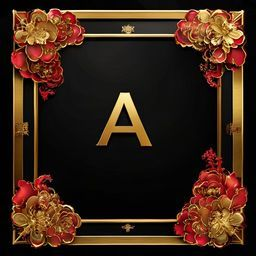
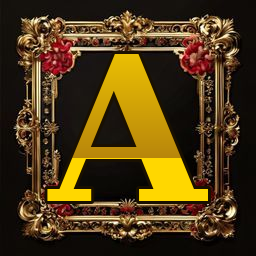
牌面 symbol 統一化：模板 + PIL 疊字方式
- 新增 2 套無文字底板模板（template_mid / template_high）
- 新增 generate_symbols.py 合成腳本（金色漸層、描邊、陰影、高光）
- 重新生成全部 13 張牌面，文字風格完全統一
- 更新 CURRENT_STATUS.md 及 dev_log

diff --git a/art/scripts/generate_symbols.py b/art/scripts/generate_symbols.py
@@ -1,0 +1,107 @@
+#!/usr/bin/env python3
+"""Generate 13 card symbol images by overlaying text on template backgrounds."""
+
+from PIL import Image, ImageDraw, ImageFont, ImageFilter
+import os
+
+BASE_DIR = os.path.dirname(os.path.dirname(os.path.abspath(__file__)))
+TEMPLATES_DIR = os.path.join(BASE_DIR, "assets", "templates")
+OUTPUT_DIR = os.path.join(BASE_DIR, "assets")
+
+FONT_PATH = "/usr/share/fonts/truetype/dejavu/DejaVuSerif-Bold.ttf"
+
+CARDS = [
+    ("CD-01_ace.png", "A", "high"),
+    ("CD-02_king.png", "K", "high"),
+    ("CD-03_queen.png", "Q", "high"),
+    ("CD-04_jack.png", "J", "high"),
+    ("CD-05_num2.png", "2", "mid"),
+    ("CD-06_num3.png", "3", "mid"),
+    ("CD-07_num4.png", "4", "mid"),
+    ("CD-08_num5.png", "5", "mid"),
+    ("CD-09_num6.png", "6", "mid"),
+    ("CD-10_num7.png", "7", "mid"),
+    ("CD-11_num8.png", "8", "mid"),
+    ("CD-12_num9.png", "9", "mid"),
+    ("CD-13_num10.png", "10", "mid"),
+]
+
+GOLD_TOP = (255, 215, 0)
+GOLD_BOTTOM = (184, 134, 11)
+OUTLINE_COLOR = (26, 16, 0)
+SHADOW_COLOR = (0, 0, 0, 128)
+HIGHLIGHT_COLOR = (255, 248, 200, 180)
+
+
+def make_gradient_text(label, font, x, y, text_h):
+    """Create text layer with vertical gold gradient."""
+    tmp = Image.new("RGBA", (256, 256), (0, 0, 0, 0))
+    draw = ImageDraw.Draw(tmp)
+    draw.text((x, y), label, font=font, fill=GOLD_TOP)
+    for row in range(max(0, y), min(256, y + text_h)):
+        t = (row - y) / max(text_h, 1)
+        r = int(GOLD_TOP[0] * (1 - t) + GOLD_BOTTOM[0] * t)
+        g = int(GOLD_TOP[1] * (1 - t) + GOLD_BOTTOM[1] * t)
+        b = int(GOLD_TOP[2] * (1 - t) + GOLD_BOTTOM[2] * t)
+        for col in range(256):
+            px = tmp.getpixel((col, row))
+            if px[3] > 0:
+                tmp.putpixel((col, row), (r, g, b, px[3]))
+    return tmp
+
+
+def generate_card(filename, label, template_type):
+    """Generate a single card image."""
+    template = Image.open(
+        os.path.join(TEMPLATES_DIR, f"template_{template_type}.png")
+    ).convert("RGBA")
+
+    # Size font to ~58% of image height
+    target_h = int(256 * 0.58)
+    font = ImageFont.truetype(FONT_PATH, 160)
+    bbox = font.getbbox(label)
+    font_size = int(160 * target_h / (bbox[3] - bbox[1]))
+    font = ImageFont.truetype(FONT_PATH, font_size)
+    bbox = font.getbbox(label)
+    text_w, text_h = bbox[2] - bbox[0], bbox[3] - bbox[1]
+    x = (256 - text_w) // 2 - bbox[0]
+    y = (256 - text_h) // 2 - bbox[1]
+
+    # Shadow
+    shadow = Image.new("RGBA", (256, 256), (0, 0, 0, 0))
+    ImageDraw.Draw(shadow).text((x + 2, y + 2), label, font=font, fill=SHADOW_COLOR)
+    shadow = shadow.filter(ImageFilter.GaussianBlur(1))
+
+    # Outline
+    outline = Image.new("RGBA", (256, 256), (0, 0, 0, 0))
+    ImageDraw.Draw(outline).text(
+        (x, y), label, font=font, fill=OUTLINE_COLOR,
+        stroke_width=3, stroke_fill=OUTLINE_COLOR
+    )
+
+    # Gradient text
+    grad_text = make_gradient_text(label, font, x, y, text_h)
+
+    # Highlight (top 2px of text only)
+    highlight = Image.new("RGBA", (256, 256), (0, 0, 0, 0))
+    ImageDraw.Draw(highlight).text((x, y), label, font=font, fill=HIGHLIGHT_COLOR)
+    for row in range(256):
+        if row < y or row > y + 2:
+            for col in range(256):
+                if highlight.getpixel((col, row))[3] > 0:
+                    highlight.putpixel((col, row), (0, 0, 0, 0))
+
+    # Composite
+    result = template.copy()
+    for layer in [shadow, outline, grad_text, highlight]:
+        result = Image.alpha_composite(result, layer)
+
+    result.convert("RGB").save(os.path.join(OUTPUT_DIR, filename), "PNG")
+    print(f"  ✅ {filename} ({label})")
+
+
+if __name__ == "__main__":
+    print("Generating 13 card symbols...")
+    for filename, label, ttype in CARDS:
+        generate_card(filename, label, ttype)
+    print("\nDone! All 13 cards generated.")

diff --git a/docs/dev_log/美術音效.md b/docs/dev_log/美術音效.md
@@ -39,3 +39,21 @@
 **關鍵 prompt / 指令：** A single large golden number 4 centered on pure black background, only one digit, ornate gold square frame border, the number occupies 60 percent of frame, red Chinese cloud motifs in four corners, Modern Guochao style, metallic gold texture, slot machine game symbol, clean sharp design, no duplicate characters, no repeated numbers
 **人工修正：** 無
 **耗時：** ~3 分鐘
+
+### [2026-05-26] — 牌面 symbol 統一化（模板 + PIL 疊字）
+
+**環節：** 美術
+**AI 工具：** Kiro Agent + Pollinations.ai + Python PIL
+**做了什麼：**
+1. 用 Pollinations.ai 生成 2 套無文字底板模板（中階 template_mid / 高階 template_high）
+2. 撰寫 generate_symbols.py 腳本，用 PIL 統一疊上金色漸層文字（DejaVu Serif Bold、描邊、陰影、高光）
+3. 產出 13 張最終合成牌面圖，替換舊圖
+**Before：** 每張牌面由 AI 獨立生成（文字風格不完全一致）
+**After：**
+- art/assets/templates/template_mid.png（中階底板）
+- art/assets/templates/template_high.png（高階底板）
+- art/scripts/generate_symbols.py（合成腳本，可重複執行）
+- art/assets/CD-01~CD-13（13 張統一風格牌面）
+**關鍵 prompt / 指令：** 牌面 symbol 統一化 — 改為模板 + 程式疊字方式
+**人工修正：** 無
+**耗時：** ~5 分鐘

diff --git a/docs/CURRENT_STATUS.md b/docs/CURRENT_STATUS.md
@@ -1,6 +1,6 @@
 # 射龍門 Slot — 專案即時狀態
 
-> 最後更新：2026-05-26 15:33 by 企劃-qa-t82
+> 最後更新：2026-05-26 16:38 by 美術音效-t84
 
 ## 目前版本：V2
 
@@ -22,7 +22,9 @@
 - ✅ 節奏對標大廠（spin ~1s、停軸間隔 150ms、thud 音效）
 
 ### 美術音效
-- ✅ 13 張牌面素材統一國潮風格（Pollinations.ai）
+- ✅ 13 張牌面素材統一國潮風格（模板+PIL疊字方式，文字風格完全一致）
+- ✅ 牌面模板系統：template_mid（2~10）+ template_high（A/J/Q/K）
+- ✅ 合成腳本：art/scripts/generate_symbols.py（可重複執行）
 - ✅ Scatter 龍圖片
 - ✅ 7 張特效圖片素材
 - ✅ 背景圖（中式宮殿門樓）
@@ -65,6 +67,7 @@
 - [ ] 可展示狀態
 
 ## 最近完成
+- [5/26] 牌面 symbol 統一化：改為模板+PIL疊字，13張牌面文字風格完全一致
 - [5/25] 企劃規格書 v1.4：碰壁-2倍、Scatter 二選一、FG/BG 重定義、列旁結算、JP 動畫
 - [5/26] 中獎線演出動畫系統（壓暗+金光+glow+粒子+badge pop，多列依序）
 - [5/26] 中獎資訊改為每列旁邊 badge 顯示（穿門金/碰壁橙/未中灰/Scatter紫）
